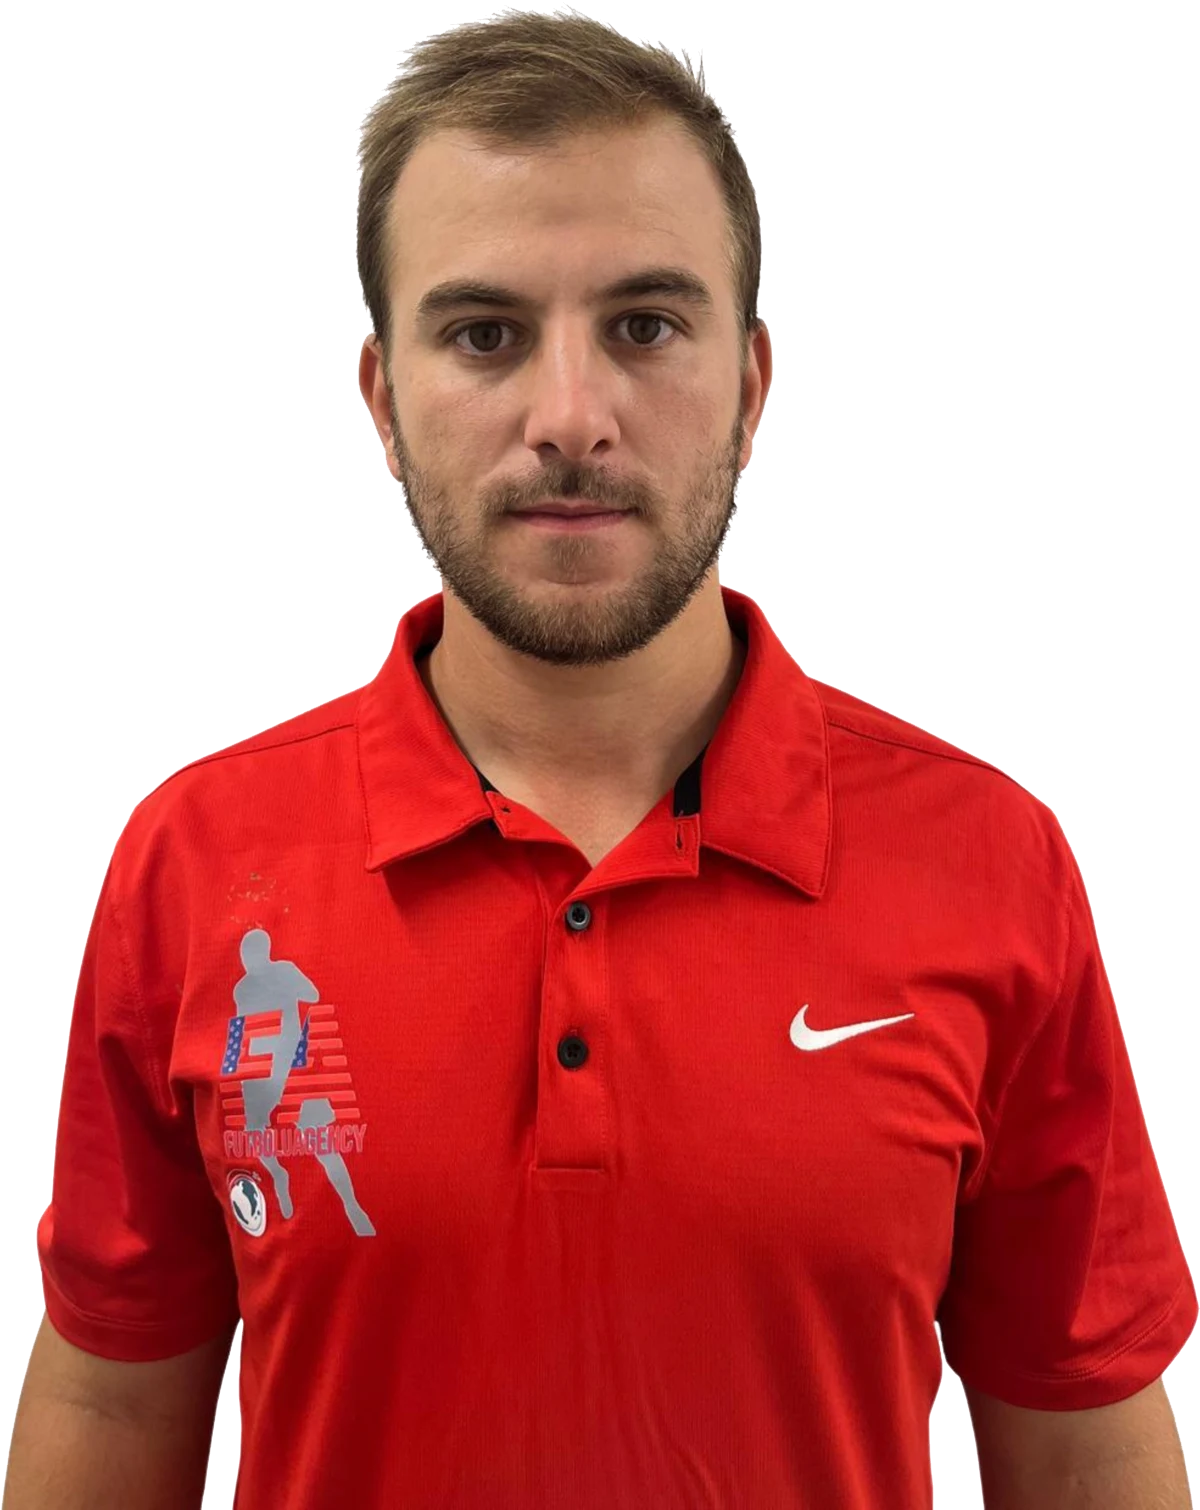
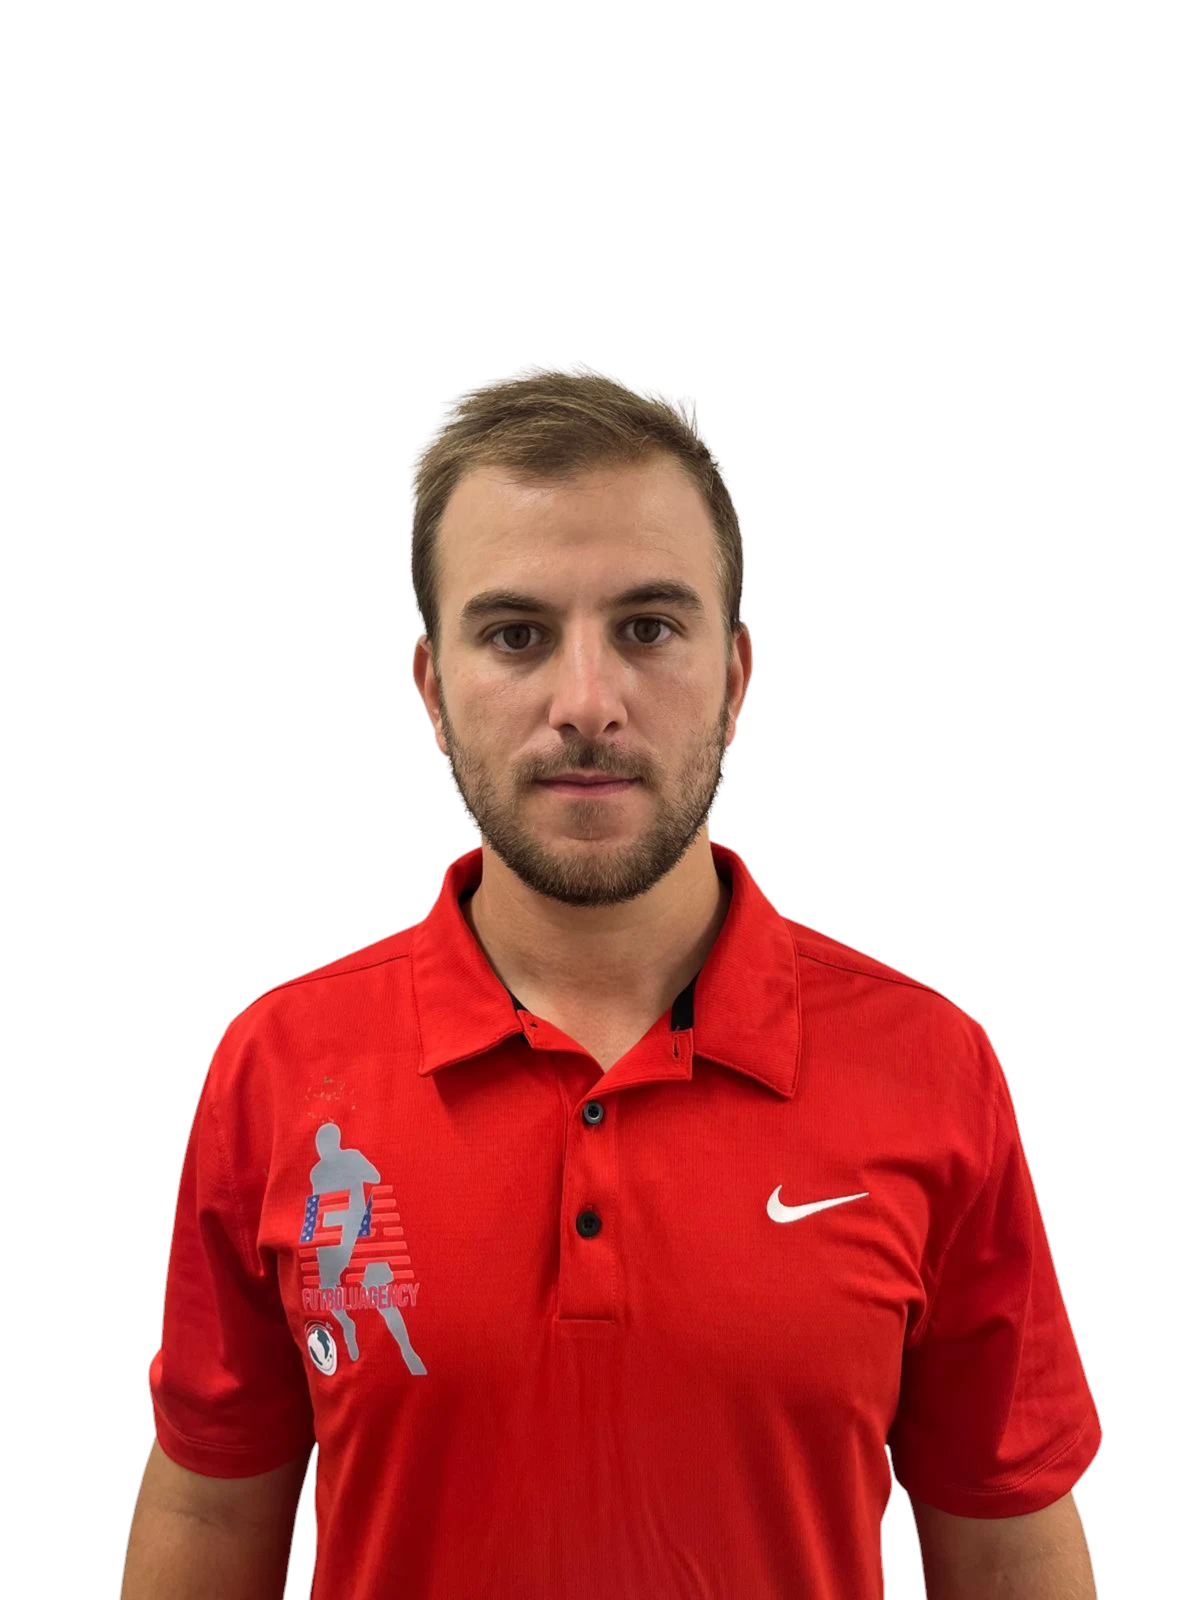
Nosotros: foto de Ignacio original sin fondo, entera y proporcionada
Claude-Session: https://claude.ai/code/session_01JSj2SiBXS2evrzapE9Gd4h

diff --git a/src/views/About.tsx b/src/views/About.tsx
@@ -28,6 +28,8 @@ type Person = {
   role: Copy;
   photo?: string | StaticImageData;
   position?: string;
+  /* Show the whole cut-out figure, standing on the bottom edge, instead of cropping it. */
+  contain?: boolean;
   instagram?: string;
   bio?: Copy<string[]>;
 };
@@ -37,7 +39,8 @@ const FOUNDERS: Person[] = [
     name: "Ignacio De Bejar",
     initials: "ID",
     photo: ignacioPhoto,
-    position: "50% 8%",
+    position: "50% 100%",
+    contain: true,
     role: { es: "Cofundador y CEO", en: "Co-founder & CEO", it: "Cofondatore e CEO", de: "Mitgründer & CEO" },
     instagram: "https://www.instagram.com/ignacio_futboluagency/",
     bio: {
@@ -226,7 +229,7 @@ const Portrait = ({ person, sizes }: { person: Person; sizes: string }) =>
       alt={person.name}
       fill
       sizes={sizes}
-      className="object-cover transition-transform duration-700 group-hover:scale-[1.03]"
+      className={`${person.contain ? "object-contain" : "object-cover"} transition-transform duration-700 group-hover:scale-[1.03]`}
       style={{ objectPosition: person.position ?? "50% 20%" }}
     />
     </>
